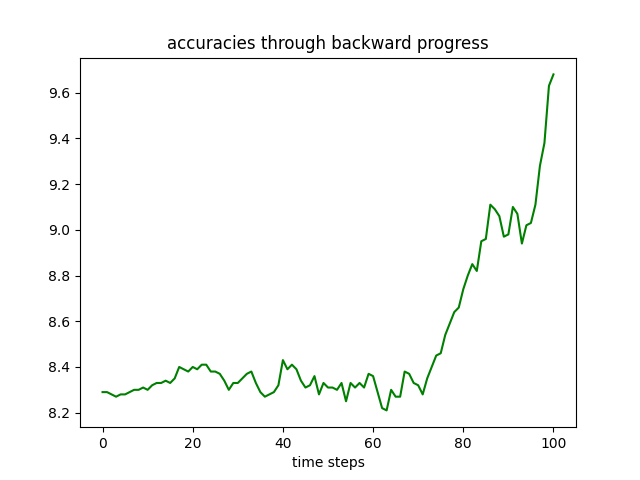
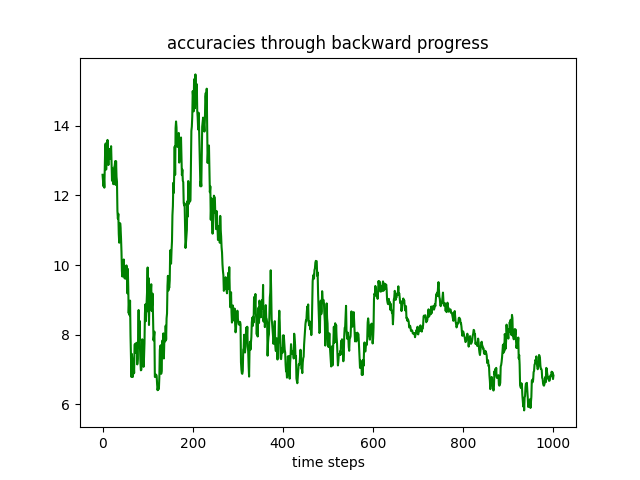
update codebase

diff --git a/libs/diffusion.py b/libs/diffusion.py
@@ -2,6 +2,7 @@ import os
 import logging
 import numpy as np
 import torch
+import torch.nn.functional as F
 from torch import optim
 from tqdm import tqdm
 
@@ -160,14 +161,24 @@ class Diffusion(object):
 
     def visualize(self, nnet_path, sample_init):
         config = self.config
-        xs = self.sample(nnet_path=nnet_path, sample_init=sample_init, only_last=False)
-        xs = xs[0]
-        steps = len(xs)
         if config.name == 'dmm_mnistlinear':
             from libs.preview_parameters import preview_parameters as view
             from assets.scripts.MNIST_linear_models import MNIST_linear as Model
             from libs.eval import MNIST_tester
             model = Model()
+            tester = MNIST_tester()
+            tester.guide(model)
+            init = model.net.weight.data
+            pad_amount = config.model.resolution[0] - init.shape[-2]
+            pad_dims = (0, 0, 0, pad_amount)
+            init = F.pad(init, pad_dims, value=0)
+            init = init.view(1, 1, config.model.resolution[0], config.model.resolution[1])
+        else:
+            raise NotImplementedError()
+        xs = self.sample(nnet_path=nnet_path, sample_init=None, only_last=False)
+        xs = xs[0]
+        steps = len(xs)
+        if config.name == 'dmm_mnistlinear':
             for i in range(steps):
                 xs[i] = xs[i].view(1, 16, 784)
             model.net.weight.data = xs[0][:, :10, :]
@@ -176,7 +187,6 @@ class Diffusion(object):
             view(model, config.log_path, "mid")
             model.net.weight.data = xs[-1][:, :10, :]
             view(model, config.log_path, "end")
-            tester = MNIST_tester()
             for i in range(steps):
                 model.net.weight.data = xs[i][0, :10, :]
                 tester.test(model)

diff --git a/libs/eval.py b/libs/eval.py
@@ -1,5 +1,6 @@
 import torch
 from torch import nn
+from torch import optim
 from torchvision import datasets
 from torchvision import transforms
 from torch.utils.data import DataLoader
@@ -29,6 +30,19 @@ class MNIST_tester(object):
         self.loss_fn = nn.CrossEntropyLoss()
         self.losses = []
         self.accs = []
+
+    def guide(self, model):
+        optimizer = optim.SGD(model.parameters(), lr=0.2)       
+        for (X, y) in self.train_loader:
+            X = X.to(self.device)
+            y = y.to(self.device)
+            model = model.to(self.device)
+            pred = model(X)
+            loss = self.loss_fn(pred, y)
+            self.accelerator.backward(loss)
+            optimizer.step()
+            optimizer.zero_grad()
+            break
 
     def test(self, model):
         size = len(self.MNIST_test)

diff --git a/main.py b/main.py
@@ -9,7 +9,7 @@ import sys
 def parse():
     parser = argparse.ArgumentParser(description=globals()["__doc__"])
     parser.add_argument("--config", type=str, required=True, help="Name of the config")
-    parser.add_argument("--seed", type=int, default=1145, help="Random seed")
+    parser.add_argument("--seed", type=int, default=1123, help="Random seed")
     parser.add_argument("--train", action="store_true", help="Enable training process")
     parser.add_argument("--sample", action="store_true", help="Enable sampling, which disables training")
     parser.add_argument("--visualize", action="store_true", help="Visualize the samples generated by our model.")

diff --git a/assets/scripts/MNIST_linear_models.py b/assets/scripts/MNIST_linear_models.py
@@ -61,6 +61,7 @@ class trainer():
         torch.save(self.model.state_dict(), f"../datasets/MNIST_models/{self.model_count}.pt")
         print(f"Finished training model [{self.model_count}/1024]")
         self.model_count += 1
+
     def test(self):
         size = len(self.MNIST_test)
         num_batches = len(self.test_loader)

diff --git a/configs/dmm_unet_small_mnistlinear.py b/configs/dmm_unet_small_mnistlinear.py
@@ -35,8 +35,8 @@ def get_config():
     )
     config.sample = d(
         n_samples=1,
-        time_steps=100,
-        eta=0,
+        time_steps=1000,
+        eta=1,
     )
 
     config.optimizer_name = 'adamw'
